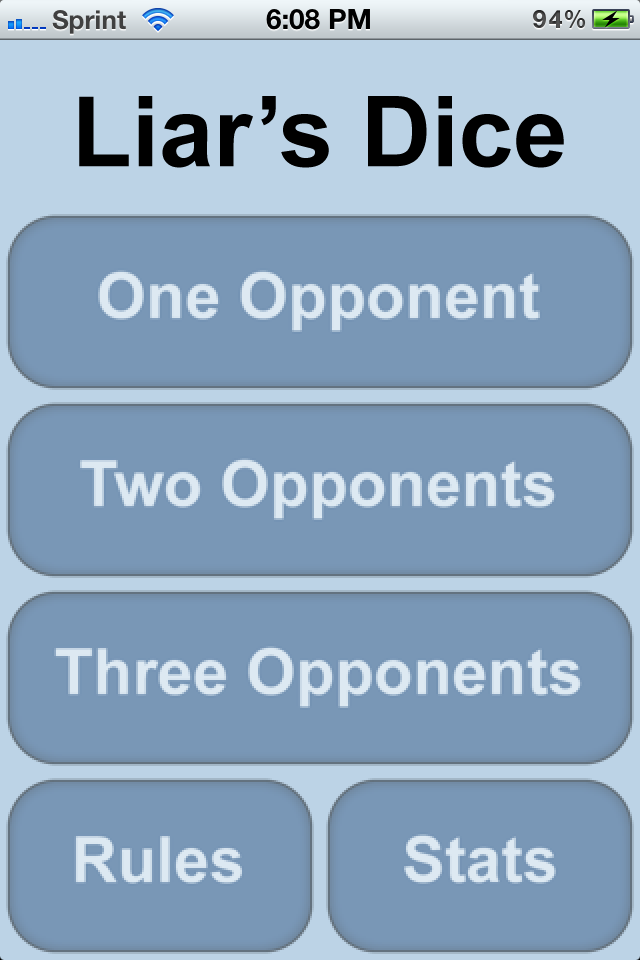
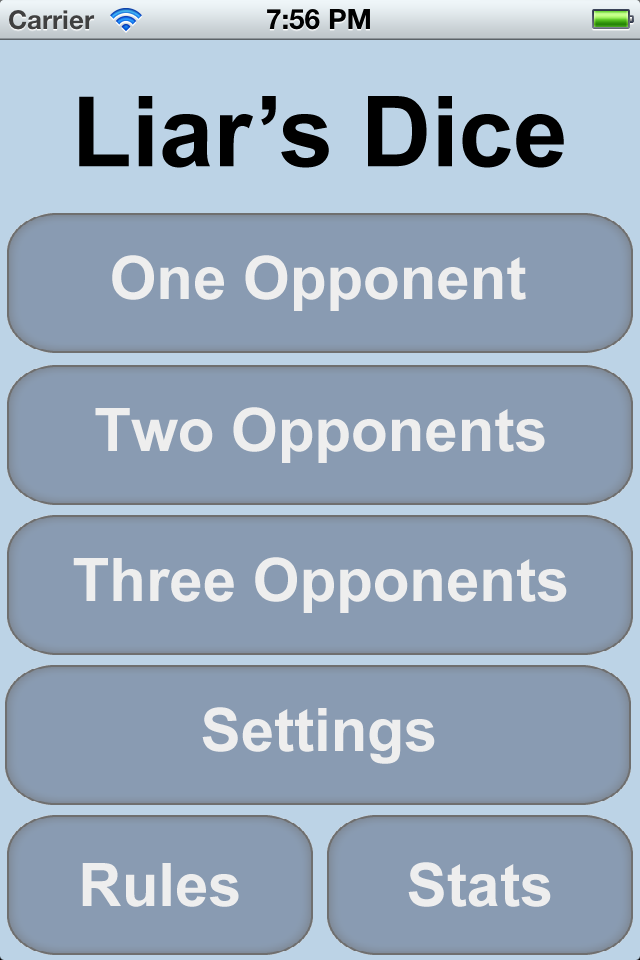
Added Settings Menu.  Added different difficulties.  Added setting the player name.  Fixed everything on Professor Laird's list except for stats bug which I have not encountered.

diff --git a/html/rules.html b/html/rules.html
@@ -4,7 +4,7 @@
 		<title>How To Play the Dice Game</title>
 	</head>
 	<body style="background-color:#bcd3e6;">
-                    <p>Taken a bit from the Wikipedia article on <a href="http://en.wikipedia.org/wiki/Dudo" target="_blank">Perudo</a> &amp; <a href="http://en.wikipedia.org/wiki/Liar's_dice" target="_blank">Liar's dice</a>, but modified to simplify, use our terminology, and our rules.</p>
+                    <p>Taken a bit from the Wikipedia article on Perudo &amp; Liar's dice, but modified to simplify, use our terminology, and our rules.</p>
 
 		<h2>
 			Game play

diff --git a/src/ui/SettingsView.m b/src/ui/SettingsView.m
@@ -26,20 +26,21 @@
     return self;
 }
 
-
 - (void) doLayout {
 	for (UIView *subview in self.scrollView.subviews) {
         [subview removeFromSuperview];
     }
 	
-	int margin = 6;
-	int y = margin;
+	int margin = 8;
+	int y = margin * 8;
 	
-	int height = 21;
+	int height = 30;
 	
-	int labelWidth = (self.view.bounds.size.width * (1/3) - margin * 2);
+	CGSize viewSize = [[self view] bounds].size;
 	
-	int textFieldWidth = (self.view.bounds.size.width * (2/3) - margin * 2);
+	int labelWidth = viewSize.width * 1.25f/3.0f - margin * 2.0f;
+	
+	int textFieldWidth = viewSize.width * 1.75f/3.0f - margin * 2.0f;
 	
 	DiceDatabase *database = [[[DiceDatabase alloc] init] autorelease];
 	
@@ -53,7 +54,7 @@
 	UILabel *playerLabel = [[[UILabel alloc] initWithFrame:CGRectMake(margin, y, labelWidth, height)] autorelease];
 	
 	playerLabel.backgroundColor = [UIColor clearColor];
-	playerLabel.text = @"PlayerName:";
+	playerLabel.text = @"Player Name:";
 	
 	[playerLabel setFont:[UIFont boldSystemFontOfSize:playerLabel.font.pointSize]];
 	
@@ -64,103 +65,44 @@
 	playerNameInput.placeholder = playerName;
 	playerNameInput.backgroundColor = [UIColor clearColor];
 	[playerNameInput setFont:[UIFont boldSystemFontOfSize:playerNameInput.font.pointSize]];
+	playerNameInput.borderStyle = UITextBorderStyleRoundedRect;
+	playerNameInput.delegate = self;
 	
 	[self.scrollView addSubview:playerNameInput];
 	
 	y += height + margin;
 	
+	UILabel *difficultyLabel = [[[UILabel alloc] initWithFrame:CGRectMake(self.scrollView.center.x - labelWidth/3.0, y, labelWidth, height)] autorelease];
+	difficultyLabel.backgroundColor = [UIColor clearColor];
+	difficultyLabel.text = @"Difficulty:";
 	
+	[difficultyLabel setFont:[UIFont boldSystemFontOfSize:difficultyLabel.font.pointSize]];
+	
+	[self.scrollView addSubview:difficultyLabel];
+	
+	y += height + margin;
+	
+	UISegmentedControl *difficultySelector = [[[UISegmentedControl alloc] initWithFrame:CGRectMake(margin, y, viewSize.width - margin * 2.0, height)] autorelease];
+	
+	difficultySelector.backgroundColor = [UIColor clearColor];
+	
+	[difficultySelector insertSegmentWithTitle:@"Medium" atIndex:0 animated:NO];
+	[difficultySelector insertSegmentWithTitle:@"Hard" atIndex:1 animated:NO];
+	[difficultySelector insertSegmentWithTitle:@"Call Me HAL" atIndex:2 animated:NO];
+	
+	difficultySelector.segmentedControlStyle = UISegmentedControlStyleBar;
+	
+	difficultySelector.selectedSegmentIndex = difficulty;
+	
+	[difficultySelector addTarget:self action:@selector(segmentedControlValueChanged:) forControlEvents:UIControlEventValueChanged];
+	
+	[self.scrollView addSubview:difficultySelector];
+	
+	y += height + margin;
+	
+	y += margin * 2;
 	
 	self.scrollView.contentSize = CGSizeMake(0, y - margin);
-	
-//    for (UIView *subview in self.scrollView.subviews) {
-//        [subview removeFromSuperview];
-//    }
-//    
-//    int margin = 6;
-//    int labelHeight = 21;
-//    float labelWidth = (self.view.bounds.size.width - margin * 5) / 3.5;
-//    DiceDatabase *database = [[[DiceDatabase alloc] init] autorelease];
-//    NSArray *games = [database getGameRecords];
-//    int y = margin;
-//    
-//    NSString *names[] = {@"Player", @"Alice", @"Bob", @"Carol"};
-//    UILabel *label;
-//	
-//	for (int numPlayers = 2;numPlayers <= 4; ++numPlayers)
-//	{
-//		label = [[[UILabel alloc] initWithFrame:CGRectMake(margin, y, labelWidth, labelHeight)] autorelease];
-//        label.backgroundColor = [UIColor clearColor];
-//        label.text = [NSString stringWithFormat:@"%d-Players", numPlayers];
-//        [label setFont:[UIFont boldSystemFontOfSize:label.font.pointSize]];
-//        [self.scrollView addSubview:label];
-//        label = [[[UILabel alloc] initWithFrame:CGRectMake(margin * 2 + labelWidth, y, labelWidth, labelHeight)] autorelease];
-//        label.backgroundColor = [UIColor clearColor];
-//        label.text = @"Wins";
-//        [self.scrollView addSubview:label];
-//        label = [[[UILabel alloc] initWithFrame:CGRectMake(margin * 3 + labelWidth * 2, y, labelWidth, labelHeight)] autorelease];
-//        label.backgroundColor = [UIColor clearColor];
-//        label.text = @"Losses";
-//        [self.scrollView addSubview:label];
-//        label = [[[UILabel alloc] initWithFrame:CGRectMake(margin * 4 + labelWidth * 3, y, labelWidth, labelHeight)] autorelease];
-//        label.backgroundColor = [UIColor clearColor];
-//        label.text = @"Quit";
-//        [self.scrollView addSubview:label];
-//        y += labelHeight + margin;
-//		
-//		for (int playerIndex = 0;playerIndex < numPlayers; ++playerIndex)
-//		{
-//			int wins = 0;
-//            int losses = 0;
-//            int incomplete = 0;
-//            for (GameRecord *game in games) {
-//                if (game.numPlayers != numPlayers) {
-//                    continue;
-//                }
-//                bool won = NO;
-//                bool lost = NO;
-//                if (game.firstPlace == playerIndex) {
-//                    won = YES;
-//                }
-//                else {
-//                    if (game.secondPlace == playerIndex
-//                        || game.thirdPlace == playerIndex
-//                        || game.fourthPlace == playerIndex)
-//                    {
-//                        lost = YES;
-//                    }
-//                }
-//                if (won) {
-//                    ++wins;
-//                } else if (lost) {
-//                    ++losses;
-//                } else {
-//                    ++incomplete;
-//                }
-//            }
-//            label = [[[UILabel alloc] initWithFrame:CGRectMake(margin, y, labelWidth, labelHeight)] autorelease];
-//            label.backgroundColor = [UIColor clearColor];
-//            label.text = names[playerIndex];
-//            [self.scrollView addSubview:label];
-//            label = [[[UILabel alloc] initWithFrame:CGRectMake(margin * 2 + labelWidth, y, labelWidth, labelHeight)] autorelease];
-//            label.backgroundColor = [UIColor clearColor];
-//            label.text = [NSString stringWithFormat:@"%d", wins];
-//            [self.scrollView addSubview:label];
-//            label = [[[UILabel alloc] initWithFrame:CGRectMake(margin * 3 + labelWidth * 2, y, labelWidth, labelHeight)] autorelease];
-//            label.backgroundColor = [UIColor clearColor];
-//            label.text = [NSString stringWithFormat:@"%d", losses];
-//            [self.scrollView addSubview:label];
-//            label = [[[UILabel alloc] initWithFrame:CGRectMake(margin * 4 + labelWidth * 3, y, labelWidth, labelHeight)] autorelease];
-//            label.backgroundColor = [UIColor clearColor];
-//            label.text = [NSString stringWithFormat:@"%d", incomplete];
-//            [self.scrollView addSubview:label];
-//            y += labelHeight + margin;
-//		}
-//		
-//		y += margin * 2;
-//	}
-//	
-//    self.scrollView.contentSize = CGSizeMake(0, y - margin);
 }
 
 - (void)viewDidLoad
@@ -172,6 +114,31 @@
     self.navigationItem.leftBarButtonItem.title = @"Back";
     
     [self doLayout];
+}
+
+- (void)textFieldDidEndEditing:(UITextField *)textField
+{
+	if (textField == nil)
+		return;
+	
+	DiceDatabase *database = [[[DiceDatabase alloc] init] autorelease];
+	[database setPlayerName:textField.text];
+	
+	[self doLayout];
+}
+
+- (BOOL)textFieldShouldReturn:(UITextField *)textField
+{
+	[textField resignFirstResponder];
+	return NO;
+}
+
+- (void)segmentedControlValueChanged:(UISegmentedControl *)segmentedControl
+{
+	DiceDatabase *database = [[[DiceDatabase alloc] init] autorelease];
+	[database setDifficulty:segmentedControl.selectedSegmentIndex];
+	
+	[self doLayout];
 }
 
 - (void)viewDidUnload

diff --git a/src/DiceDatabase.m b/src/DiceDatabase.m
@@ -183,7 +183,11 @@ void executeSql(const char *sqlStatement) {
 
 - (void) setPlayerName:(NSString *)playerName
 {
-	executeSql([[NSString stringWithFormat:@"update	settings set player_name='%@';", playerName] UTF8String]);
+	int difficulty = [self getDifficulty];
+	
+	executeSql("delete from settings;");
+	
+	executeSql([[NSString stringWithFormat:@"insert into settings (player_name, difficulty) values ('%@', %i);", playerName, difficulty] UTF8String]);
 }
 
 - (NSString *) getPlayerName
@@ -204,7 +208,7 @@ void executeSql(const char *sqlStatement) {
 			// Loop through the results and add them to the feeds array
 			while(sqlite3_step(compiledStatement) == SQLITE_ROW) {
 				// Read the data from the result row
-                const unsigned char* nameOfThePlayer = sqlite3_column_text(compiledStatement, 1);
+                const unsigned char* nameOfThePlayer = sqlite3_column_text(compiledStatement, 0);
                 
 				playerName = [[NSString alloc] initWithBytes:nameOfThePlayer length:sizeof(nameOfThePlayer) encoding:NSASCIIStringEncoding];
 			}
@@ -221,7 +225,14 @@ void executeSql(const char *sqlStatement) {
 
 - (void) setDifficulty:(int)difficulty
 {
-	executeSql([[NSString stringWithFormat:@"update	settings set difficulty='%i';", difficulty] UTF8String]);
+	NSString* name = [self getPlayerName];
+	
+	if (name == nil)
+		name = @"Player";
+	
+	executeSql("delete from settings;");
+	
+	executeSql([[NSString stringWithFormat:@"insert into settings (player_name, difficulty) values ('%@', %i);", name, difficulty] UTF8String]);
 }
 
 - (int) getDifficulty
@@ -242,7 +253,7 @@ void executeSql(const char *sqlStatement) {
 			// Loop through the results and add them to the feeds array
 			while(sqlite3_step(compiledStatement) == SQLITE_ROW) {
 				// Read the data from the result row
-                difficulty = sqlite3_column_int(compiledStatement, 1);
+                difficulty = sqlite3_column_int(compiledStatement, 0);
 			}
 		} else {
             NSLog(@"SQL read error %d", error);

diff --git a/src/Soar/SoarPlayer.mm b/src/Soar/SoarPlayer.mm
@@ -13,6 +13,8 @@
 #import "DiceGameState.h"
 #import "DiceGame.h"
 
+#import "DiceDatabase.h"
+
 #include <map>
 
 //#include "sml_Events.h"
@@ -128,8 +130,33 @@ typedef enum {
         // This is where we specify the root .soar file that will source the Soar agent.
         // We want this to be dice-agent-new, but right now that breaks the agent
         // so we're loading dice-p0-m0-c0 instead.
-        NSString *ruleFile = @"dice-pmh"; /* @"dice-p0-m0-c0"; */
+		
+		DiceDatabase *database = [[DiceDatabase alloc] init];
+		
+		int difficulty = [database getDifficulty];
+		
+        NSString *ruleFile = nil; /*@"dice-pmh"; @"dice-p0-m0-c0"; */
         
+		switch (difficulty)
+		{
+			default:
+			case 0:
+			{
+				ruleFile = @"dice-medium";
+				break;
+			}
+			case 1:
+			{
+				ruleFile = @"dice-hard";
+				break;
+			}
+			case 2:
+			{
+				ruleFile = @"dice-hardest";
+				break;
+			}
+		}
+		
         if (!remoteConnected)
         {
             path = [NSString stringWithFormat:@"source \"%@\"", [[NSBundle mainBundle] pathForResource:ruleFile ofType:@"soar" inDirectory:@""]];

diff --git a/src/ui/DiceMainMenu.m b/src/ui/DiceMainMenu.m
@@ -127,7 +127,7 @@
     DiceGame *game = [[[DiceGame alloc]
                        initWithType:LOCAL_PRIVATE
                        appDelegate:self.appDelegate
-                       username:@"Player"]
+                       username:username]
                       autorelease];
     UIViewController *gameView = [[[LoadingGameView alloc] initWithGame:game numOpponents:opponents mainMenu:self] autorelease];
     [self.navigationController pushViewController:gameView animated:YES];

diff --git a/src/ui/LoadingGameView.m b/src/ui/LoadingGameView.m
@@ -12,6 +12,8 @@
 #import "PlayGameView.h"
 #import "DiceMainMenu.h"
 
+#import "DiceDatabase.h"
+
 @implementation LoadingGameView
 @synthesize spinnerView;
 
@@ -55,8 +57,12 @@ NSString *makePlayerName(int index) {
         case 3:
             return @"Carol";
         default:
-            return @"Player";
+		{
+			DiceDatabase *database = [[DiceDatabase alloc] init];
+			
+            return [database getPlayerName];
             break;
+		}
     }
 }
 

diff --git a/src/ui/SettingsView.h b/src/ui/SettingsView.h
@@ -8,8 +8,11 @@
 
 #import <UIKit/UIKit.h>
 
-@interface SettingsView : UIViewController
+@interface SettingsView : UIViewController <UITextFieldDelegate>
 @property (retain, nonatomic) IBOutlet UIScrollView *scrollView;
 @property (retain, nonatomic) IBOutlet UIImageView *background;
+
+- (void)textFieldDidEndEditing:(UITextField *)textField;
+- (void)segmentedControlValueChanged:(UISegmentedControl *)segmentedControl;
 
 @end

diff --git a/src/ui/RecordStatsView.m b/src/ui/RecordStatsView.m
@@ -39,7 +39,7 @@
     NSArray *games = [database getGameRecords];
     int y = margin;
     
-    NSString *names[] = {@"Player", @"Alice", @"Bob", @"Carol"};
+    NSString *names[] = {[database getPlayerName], @"Alice", @"Bob", @"Carol"};
     UILabel *label;
 	
 	for (int numPlayers = 2;numPlayers <= 4; ++numPlayers)
